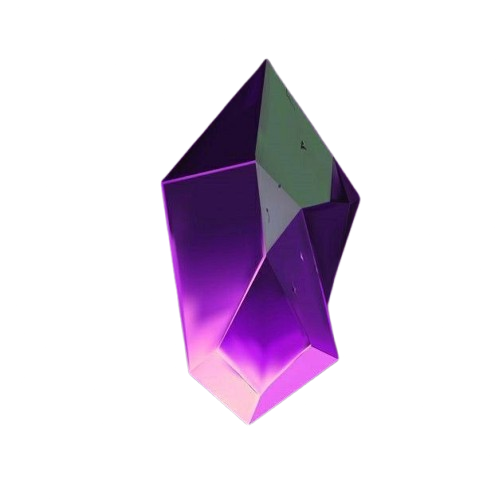
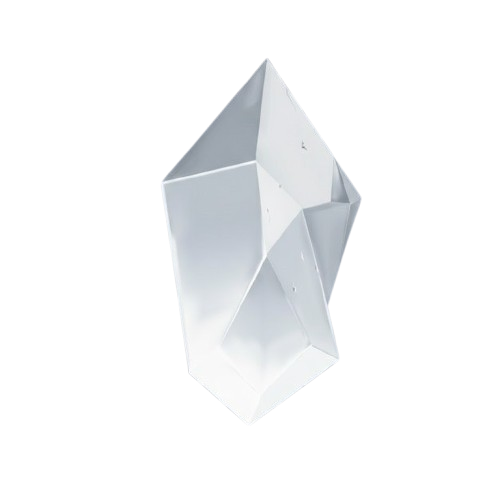
added glass effect and changed  gem
removed glowing effect of podium and added bg

Changed region(s): [[0.3006, 0.1202, 0.7214, 0.8717]]

diff --git a/src/pages/Leaderboard.tsx b/src/pages/Leaderboard.tsx
@@ -21,8 +21,21 @@ type Tab = (typeof TABS)[number];
 const Leaderboard = () => {
   const [activeTab, setActiveTab] = useState<Tab>('leaderboard');
   const [showQuiz, setShowQuiz] = useState(false);
-  const [enableSmokeAnimation] = useState(false); //This is a toggle switch to turn on and off smoke shockwave
-  //Set it to true for the visible display of the shockwave
+
+  const glassCardStyle = {
+    borderRadius: "1.75rem",
+    border: "1px solid rgba(255, 255, 255, 0.18)",
+    background: `
+      linear-gradient(to top, rgba(0, 0, 0, 0.20), transparent 60%),
+      rgba(21, 21, 21, 0.30)
+    `,
+    boxShadow: `
+      inset 0 0 0 1px rgba(255, 255, 255, 0.08),
+      inset 0 1px 0 rgba(255, 255, 255, 0.22)
+    `,
+    backdropFilter: "brightness(1.1) blur(1px)",
+    WebkitBackdropFilter: "brightness(1.1) blur(1px)",
+  };
 
   const handleTabChange = (tab: Tab) => {
     setActiveTab(tab);
@@ -82,7 +95,12 @@ const Leaderboard = () => {
         }
       `}</style>
 
-      <div className="w-full text-white p-2 sm:p-3 md:p-6 font-sans selection:bg-transparent min-h-screen relative overflow-x-hidden">
+      <div
+        className="fixed inset-0 -z-10 bg-cover bg-center bg-no-repeat"
+        style={{ backgroundImage: "url('/temp_event_bg.png')" }}
+      />
+
+      <div className="w-full text-white p-2 sm:p-3 md:p-6 font-sans selection:bg-transparent min-h-[100svh] relative overflow-x-hidden">
 
         {/* Render Quiz Modal */}
         <QuizModal isOpen={showQuiz} onClose={closeQuiz} />
@@ -117,37 +135,23 @@ const Leaderboard = () => {
                   {/* Rank 2 */}
                   <div className="flex flex-col items-center animate-[drop_0.7s_ease-out_both]" style={{ transform: 'translateZ(-20px)', transformStyle: 'preserve-3d' }}>
                     <div className="relative mb-2 sm:mb-3 md:mb-4 group cursor-pointer">
-                      <div className="absolute inset-0 bg-gradient-to-r from-gray-400 to-gray-500 rounded-full blur-xl opacity-40 group-hover:opacity-60 transition-all"></div>
-                      <img src="https://api.dicebear.com/7.x/bottts/svg?seed=TEST2" alt="TEST2" className="relative w-16 h-16 sm:w-18 sm:h-18 md:w-20 md:h-20 rounded-full border-3 md:border-4 border-gray-400/50 object-cover shadow-2xl" />
+                      <img src="https://api.dicebear.com/7.x/bottts/svg?seed=TEST2" alt="TEST2" className="relative w-16 h-16 sm:w-18 sm:h-18 md:w-20 md:h-20 rounded-full border-3 md:border-4 border-gray-400/50 object-cover" />
                     </div>
                     <h3 className="font-bold text-sm sm:text-base mb-1 sm:mb-2">TEST2</h3>
 
-                    <div className="relative w-52 h-56 bg-gradient-to-b from-gray-400/50 to-gray-700/50 border-t-4 border-x-2 border-gray-300/70 rounded-t-2xl shadow-[0_-12px_50px_rgba(0,0,0,0.5),0_20px_60px_rgba(0,0,0,0.7),inset_0_3px_25px_rgba(255,255,255,0.25)] backdrop-blur-xl"
+                    <div className="relative w-52 h-56 bg-gradient-to-b from-gray-400/50 to-gray-700/50 border-t-4 border-x-2 border-gray-300/70 rounded-t-2xl backdrop-blur-xl"
                       style={{ transform: 'translateZ(15px) rotateY(-3deg) scaleX(0.95)', transformOrigin: 'bottom', transformStyle: 'preserve-3d' }}>
                       <div className="absolute -right-2 top-0 bottom-0 w-6 bg-gradient-to-b from-gray-500/90 to-gray-800/90 rounded-tr-2xl" style={{ transform: 'rotateY(12deg) translateX(1px)', transformOrigin: 'left', clipPath: 'polygon(50% 0%, 100% 0%, 100% 100%, 0% 100%)' }}></div>
                       <div className="absolute -left-2 top-0 bottom-0 w-6 bg-gradient-to-b from-gray-400/80 to-gray-700/80 rounded-tl-2xl" style={{ transform: 'rotateY(-12deg) translateX(-1px)', transformOrigin: 'right', clipPath: 'polygon(0% 0%, 50% 0%, 100% 100%, 0% 100%)' }}></div>
-                      <div className="absolute -bottom-8 left-1/2 -translate-x-1/2 w-56 h-16 bg-gray-400/70 rounded-full blur-2xl"></div>
-                      <div className="absolute -bottom-4 left-1/4 w-32 h-12 bg-gray-300/60 rounded-full blur-xl"></div>
-                      <div className="absolute -bottom-6 right-1/4 w-40 h-14 bg-gray-500/65 rounded-full blur-2xl"></div>
-                      <div className={`absolute -bottom-10 left-1/2 -translate-x-1/2 w-64 h-20 bg-white/90 rounded-[50%] blur-3xl ${enableSmokeAnimation ? 'animate-[smokeBurst_1.2s_ease-out_0.6s_both]' : ''}`}></div>
-                      <div className={`absolute -bottom-10 left-1/4 w-48 h-20 bg-white/85 rounded-[70%] blur-3xl ${enableSmokeAnimation ? 'animate-[smokeLeft_1.2s_ease-out_0.65s_both]' : ''}`}></div>
-                      <div className={`absolute -bottom-10 right-1/4 w-48 h-20 bg-white/85 rounded-[70%] blur-3xl ${enableSmokeAnimation ? 'animate-[smokeRight_1.2s_ease-out_0.65s_both]' : ''}`}></div>
-                      <div className={`absolute -bottom-8 left-1/3 w-40 h-16 bg-white/75 rounded-[60%] blur-2xl ${enableSmokeAnimation ? 'animate-[smokeBottomLeft_1.2s_ease-out_0.7s_both]' : ''}`}></div>
-                      <div className={`absolute -bottom-8 right-1/3 w-40 h-16 bg-white/75 rounded-[60%] blur-2xl ${enableSmokeAnimation ? 'animate-[smokeBottomRight_1.2s_ease-out_0.7s_both]' : ''}`}></div>
                       <div className="absolute inset-0 bg-gradient-to-br from-white/30 via-transparent to-black/40 rounded-t-2xl"></div>
                       <div className="absolute inset-0 bg-gradient-to-t from-black/30 to-transparent rounded-t-2xl"></div>
                       <div className="absolute inset-0 bg-gradient-to-tl from-transparent via-white/10 to-transparent rounded-t-2xl"></div>
-                      <div className="absolute top-0 left-0 right-0 h-3 bg-gradient-to-r from-transparent via-gray-50/95 to-transparent shadow-[0_4px_20px_rgba(255,255,255,0.7)]"></div>
-                      <div className="absolute top-0 left-0 w-2 h-full bg-gradient-to-b from-white/70 via-white/30 to-transparent shadow-[3px_0_15px_rgba(255,255,255,0.5)]"></div>
-                      <div className="absolute top-0 right-0 w-2 h-full bg-gradient-to-b from-black/70 via-black/30 to-transparent shadow-[-3px_0_15px_rgba(0,0,0,0.6)]"></div>
                       <div className="absolute bottom-0 left-0 right-0 h-12 bg-gradient-to-t from-black/50 to-transparent"></div>
-                      <div className="absolute top-1/3 left-0 right-0 h-px bg-gradient-to-r from-transparent via-white/40 to-transparent shadow-[0_0_10px_rgba(255,255,255,0.5)]"></div>
-                      <div className="absolute inset-0 rounded-t-2xl" style={{ background: 'radial-gradient(ellipse at 50% -20%, rgba(255,255,255,0.15) 0%, transparent 50%)' }}></div>
                       <div className="relative flex flex-col items-center justify-center h-full" style={{ transform: 'translateZ(30px)' }}>
-                        <div className="text-7xl font-black text-gray-200/60 mb-3 drop-shadow-[0_8px_16px_rgba(0,0,0,0.6)] [text-shadow:_3px_3px_12px_rgb(0_0_0_/_60%)]">2</div>
+                        <div className="text-7xl font-black text-gray-200/60 mb-3">2</div>
                         <div className="flex items-center gap-2">
-                          <img src="/leaderboard/diamond-removebg-preview.png" alt="crystal" className="w-11 h-11 object-contain transition-all duration-300 hover:drop-shadow-[0_0_25px_rgba(168,85,247,1)] hover:brightness-110 hover:scale-110 cursor-pointer" />
-                          <span className="text-3xl font-black text-white drop-shadow-lg">1231</span>
+                          <img src="/leaderboard/diamond-removebg-preview.png" alt="crystal" className="w-12 h-12 object-contain transition-all duration-300 hover:brightness-110 hover:scale-110 cursor-pointer" />
+                          <span className="text-3xl font-black text-white">1231</span>
                         </div>
                       </div>
                     </div>
@@ -160,39 +164,24 @@ const Leaderboard = () => {
                     </div>
 
                     <div className="relative mb-2 sm:mb-3 md:mb-4 group cursor-pointer">
-                      <div className="absolute inset-0 bg-gradient-to-r from-yellow-400 to-amber-500 rounded-full blur-2xl opacity-60 animate-pulse"></div>
-                      <img src="https://api.dicebear.com/7.x/bottts/svg?seed=TEST1" alt="TEST1" className="relative w-20 h-20 sm:w-22 sm:h-22 md:w-24 md:h-24 rounded-full border-3 md:border-4 border-yellow-400/60 object-cover shadow-[0_0_40px_rgba(251,191,36,0.4)]" />
+                      <img src="https://api.dicebear.com/7.x/bottts/svg?seed=TEST1" alt="TEST1" className="relative w-20 h-20 sm:w-22 sm:h-22 md:w-24 md:h-24 rounded-full border-3 md:border-4 border-yellow-400/60 object-cover" />
                     </div>
                     <h3 className="font-black text-base sm:text-lg mb-1 sm:mb-2 bg-gradient-to-r from-yellow-300 to-amber-400 bg-clip-text text-transparent">TEST1</h3>
 
-                    <div className="relative w-56 h-80 bg-gradient-to-b from-yellow-400/50 to-amber-700/50 border-t-4 border-x-2 border-yellow-300/80 rounded-t-2xl shadow-[0_-18px_70px_rgba(251,191,36,0.7),0_25px_70px_rgba(0,0,0,0.8),inset_0_4px_30px_rgba(255,255,255,0.3)] backdrop-blur-xl"
+                    <div className="relative w-56 h-80 bg-gradient-to-b from-yellow-400/50 to-amber-700/50 border-t-4 border-x-2 border-yellow-300/80 rounded-t-2xl backdrop-blur-xl"
                       style={{ transform: 'translateZ(35px) scaleX(0.95)', transformOrigin: 'bottom', transformStyle: 'preserve-3d' }}>
                       <div className="absolute -right-2.5 top-0 bottom-0 w-7 bg-gradient-to-b from-amber-500/90 to-amber-900/90 rounded-tr-2xl" style={{ transform: 'rotateY(8deg) translateX(1px)', transformOrigin: 'left', clipPath: 'polygon(50% 0%, 100% 0%, 100% 100%, 0% 100%)' }}></div>
                       <div className="absolute -left-2.5 top-0 bottom-0 w-7 bg-gradient-to-b from-yellow-400/80 to-amber-700/80 rounded-tl-2xl" style={{ transform: 'rotateY(-8deg) translateX(-1px)', transformOrigin: 'right', clipPath: 'polygon(0% 0%, 50% 0%, 100% 100%, 0% 100%)' }}></div>
-                      <div className="absolute -bottom-10 left-1/2 -translate-x-1/2 w-64 h-20 bg-yellow-400/80 rounded-full blur-2xl"></div>
-                      <div className="absolute -bottom-6 left-1/4 w-40 h-16 bg-amber-300/70 rounded-full blur-xl"></div>
-                      <div className="absolute -bottom-8 right-1/4 w-48 h-18 bg-yellow-500/75 rounded-full blur-2xl"></div>
-                      <div className={`absolute -bottom-12 left-1/2 -translate-x-1/2 w-72 h-24 bg-white/90 rounded-[50%] blur-3xl ${enableSmokeAnimation ? 'animate-[smokeBurst_1.2s_ease-out_0.6s_both]' : ''}`}></div>
-                      <div className={`absolute -bottom-12 left-1/4 w-56 h-24 bg-white/85 rounded-[70%] blur-3xl ${enableSmokeAnimation ? 'animate-[smokeLeft_1.2s_ease-out_0.65s_both]' : ''}`}></div>
-                      <div className={`absolute -bottom-12 right-1/4 w-56 h-24 bg-white/85 rounded-[70%] blur-3xl ${enableSmokeAnimation ? 'animate-[smokeRight_1.2s_ease-out_0.65s_both]' : ''}`}></div>
-                      <div className={`absolute -bottom-10 left-1/3 w-48 h-20 bg-white/80 rounded-[60%] blur-2xl ${enableSmokeAnimation ? 'animate-[smokeBottomLeft_1.2s_ease-out_0.7s_both]' : ''}`}></div>
-                      <div className={`absolute -bottom-10 right-1/3 w-48 h-20 bg-white/80 rounded-[60%] blur-2xl ${enableSmokeAnimation ? 'animate-[smokeBottomRight_1.2s_ease-out_0.7s_both]' : ''}`}></div>
                       <div className="absolute inset-0 bg-gradient-to-br from-yellow-200/40 via-transparent to-amber-900/40 rounded-t-2xl"></div>
                       <div className="absolute inset-0 bg-gradient-to-t from-black/30 to-transparent rounded-t-2xl"></div>
                       <div className="absolute inset-0 bg-gradient-to-tl from-transparent via-yellow-300/15 to-transparent rounded-t-2xl"></div>
-                      <div className="absolute top-0 left-0 right-0 h-3.5 bg-gradient-to-r from-transparent via-yellow-100/100 to-transparent shadow-[0_5px_25px_rgba(251,191,36,1)]"></div>
-                      <div className="absolute top-0 left-0 w-2 h-full bg-gradient-to-b from-yellow-50/80 via-yellow-200/40 to-transparent shadow-[4px_0_20px_rgba(251,191,36,0.7)]"></div>
-                      <div className="absolute top-0 right-0 w-2 h-full bg-gradient-to-b from-amber-900/80 via-amber-800/40 to-transparent shadow-[-4px_0_20px_rgba(180,83,9,0.7)]"></div>
                       <div className="absolute bottom-0 left-0 right-0 h-16 bg-gradient-to-t from-black/60 to-transparent"></div>
-                      <div className="absolute top-1/3 left-0 right-0 h-px bg-gradient-to-r from-transparent via-yellow-200/50 to-transparent shadow-[0_0_12px_rgba(251,191,36,0.8)]"></div>
                       <div className="absolute top-1/2 left-0 right-0 h-px bg-gradient-to-r from-transparent via-yellow-300/30 to-transparent"></div>
-                      <div className="absolute inset-0 rounded-t-2xl animate-pulse" style={{ background: 'radial-gradient(ellipse at 50% -30%, rgba(251,191,36,0.2) 0%, transparent 60%)' }}></div>
-                      <div className="absolute inset-0 rounded-t-2xl" style={{ background: 'radial-gradient(ellipse at 20% 80%, rgba(251,191,36,0.1) 0%, transparent 50%)' }}></div>
                       <div className="relative flex flex-col items-center justify-center h-full" style={{ transform: 'translateZ(40px)' }}>
-                        <div className="text-8xl font-black text-yellow-200/70 mb-4 drop-shadow-[0_10px_20px_rgba(0,0,0,0.7)] [text-shadow:_4px_4px_15px_rgb(0_0_0_/_60%)]">1</div>
+                        <div className="text-8xl font-black text-yellow-200/70 mb-4">1</div>
                         <div className="flex items-center gap-2.5">
-                          <img src="/leaderboard/diamond-removebg-preview.png" alt="crystal" className="w-16 h-16 object-contain drop-shadow-[0_0_10px_rgba(168,85,247,0.8)] transition-all duration-300 hover:drop-shadow-[0_0_35px_rgba(168,85,247,1)] hover:brightness-110 hover:scale-110 cursor-pointer" />
-                          <span className="text-5xl font-black bg-gradient-to-r from-yellow-200 to-amber-300 bg-clip-text text-transparent drop-shadow-lg">1789</span>
+                          <img src="/leaderboard/diamond-removebg-preview.png" alt="crystal" className="w-18 h-18 object-contain transition-all duration-300 hover:brightness-110 hover:scale-110 cursor-pointer" />
+                          <span className="text-5xl font-black bg-gradient-to-r from-yellow-200 to-amber-300 bg-clip-text text-transparent">1789</span>
                         </div>
                       </div>
                       <div className="absolute bottom-4 left-0 right-0 flex justify-center">
@@ -204,37 +193,23 @@ const Leaderboard = () => {
                   {/* Rank 3 */}
                   <div className="flex flex-col items-center animate-[drop_0.7s_ease-out_both]" style={{ transform: 'translateZ(-20px)', transformStyle: 'preserve-3d' }}>
                     <div className="relative mb-2 sm:mb-3 md:mb-4 group cursor-pointer">
-                      <div className="absolute inset-0 bg-gradient-to-r from-orange-400 to-amber-600 rounded-full blur-xl opacity-40 group-hover:opacity-60 transition-all"></div>
-                      <img src="https://api.dicebear.com/7.x/bottts/svg?seed=TEST3" alt="TEST3" className="relative w-16 h-16 sm:w-18 sm:h-18 md:w-20 md:h-20 rounded-full border-3 md:border-4 border-orange-400/50 object-cover shadow-2xl" />
+                      <img src="https://api.dicebear.com/7.x/bottts/svg?seed=TEST3" alt="TEST3" className="relative w-16 h-16 sm:w-18 sm:h-18 md:w-20 md:h-20 rounded-full border-3 md:border-4 border-orange-400/50 object-cover" />
                     </div>
                     <h3 className="font-bold text-sm sm:text-base mb-1 sm:mb-2">TEST3</h3>
 
-                    <div className="relative w-52 h-44 bg-gradient-to-b from-orange-400/50 to-amber-700/50 border-t-4 border-x-2 border-orange-300/70 rounded-t-2xl shadow-[0_-12px_50px_rgba(0,0,0,0.5),0_20px_60px_rgba(0,0,0,0.7),inset_0_3px_25px_rgba(255,255,255,0.25)] backdrop-blur-xl"
+                    <div className="relative w-52 h-44 bg-gradient-to-b from-orange-400/50 to-amber-700/50 border-t-4 border-x-2 border-orange-300/70 rounded-t-2xl backdrop-blur-xl"
                       style={{ transform: 'translateZ(15px) rotateY(3deg) scaleX(0.95)', transformOrigin: 'bottom', transformStyle: 'preserve-3d' }}>
                       <div className="absolute -right-2 top-0 bottom-0 w-6 bg-gradient-to-b from-orange-600/90 to-amber-900/90 rounded-tr-2xl" style={{ transform: 'rotateY(12deg) translateX(1px)', transformOrigin: 'left', clipPath: 'polygon(50% 0%, 100% 0%, 100% 100%, 0% 100%)' }}></div>
                       <div className="absolute -left-2 top-0 bottom-0 w-6 bg-gradient-to-b from-orange-400/80 to-amber-700/80 rounded-tl-2xl" style={{ transform: 'rotateY(-12deg) translateX(-1px)', transformOrigin: 'right', clipPath: 'polygon(0% 0%, 50% 0%, 100% 100%, 0% 100%)' }}></div>
-                      <div className="absolute -bottom-8 left-1/2 -translate-x-1/2 w-56 h-16 bg-orange-400/70 rounded-full blur-2xl"></div>
-                      <div className="absolute -bottom-4 left-1/4 w-32 h-12 bg-orange-300/60 rounded-full blur-xl"></div>
-                      <div className="absolute -bottom-6 right-1/4 w-40 h-14 bg-amber-500/65 rounded-full blur-2xl"></div>
-                      <div className={`absolute -bottom-10 left-1/2 -translate-x-1/2 w-64 h-20 bg-white/90 rounded-[50%] blur-3xl ${enableSmokeAnimation ? 'animate-[smokeBurst_1.2s_ease-out_0.6s_both]' : ''}`}></div>
-                      <div className={`absolute -bottom-10 left-1/4 w-48 h-20 bg-white/85 rounded-[70%] blur-3xl ${enableSmokeAnimation ? 'animate-[smokeLeft_1.2s_ease-out_0.65s_both]' : ''}`}></div>
-                      <div className={`absolute -bottom-10 right-1/4 w-48 h-20 bg-white/85 rounded-[70%] blur-3xl ${enableSmokeAnimation ? 'animate-[smokeRight_1.2s_ease-out_0.65s_both]' : ''}`}></div>
-                      <div className={`absolute -bottom-8 left-1/3 w-40 h-16 bg-white/75 rounded-[60%] blur-2xl ${enableSmokeAnimation ? 'animate-[smokeBottomLeft_1.2s_ease-out_0.7s_both]' : ''}`}></div>
-                      <div className={`absolute -bottom-8 right-1/3 w-40 h-16 bg-white/75 rounded-[60%] blur-2xl ${enableSmokeAnimation ? 'animate-[smokeBottomRight_1.2s_ease-out_0.7s_both]' : ''}`}></div>
                       <div className="absolute inset-0 bg-gradient-to-br from-orange-200/30 via-transparent to-amber-900/40 rounded-t-2xl"></div>
                       <div className="absolute inset-0 bg-gradient-to-t from-black/30 to-transparent rounded-t-2xl"></div>
                       <div className="absolute inset-0 bg-gradient-to-tl from-transparent via-orange-300/10 to-transparent rounded-t-2xl"></div>
-                      <div className="absolute top-0 left-0 right-0 h-3 bg-gradient-to-r from-transparent via-orange-100/95 to-transparent shadow-[0_4px_20px_rgba(251,146,60,0.7)]"></div>
-                      <div className="absolute top-0 left-0 w-2 h-full bg-gradient-to-b from-orange-50/70 via-orange-200/30 to-transparent shadow-[3px_0_15px_rgba(251,146,60,0.5)]"></div>
-                      <div className="absolute top-0 right-0 w-2 h-full bg-gradient-to-b from-amber-900/70 via-amber-800/30 to-transparent shadow-[-3px_0_15px_rgba(180,83,9,0.6)]"></div>
                       <div className="absolute bottom-0 left-0 right-0 h-12 bg-gradient-to-t from-black/50 to-transparent"></div>
-                      <div className="absolute top-1/3 left-0 right-0 h-px bg-gradient-to-r from-transparent via-orange-300/40 to-transparent shadow-[0_0_10px_rgba(251,146,60,0.5)]"></div>
-                      <div className="absolute inset-0 rounded-t-2xl" style={{ background: 'radial-gradient(ellipse at 50% -20%, rgba(251,146,60,0.15) 0%, transparent 50%)' }}></div>
                       <div className="relative flex flex-col items-center justify-center h-full" style={{ transform: 'translateZ(30px)' }}>
-                        <div className="text-7xl font-black text-orange-200/60 mb-3 drop-shadow-[0_8px_16px_rgba(0,0,0,0.6)] [text-shadow:_3px_3px_12px_rgb(0_0_0_/_60%)]">3</div>
+                        <div className="text-7xl font-black text-orange-200/60 mb-3">3</div>
                         <div className="flex items-center gap-2">
-                          <img src="/leaderboard/diamond-removebg-preview.png" alt="crystal" className="w-11 h-11 object-contain transition-all duration-300 hover:drop-shadow-[0_0_25px_rgba(168,85,247,1)] hover:brightness-110 hover:scale-110 cursor-pointer" />
-                          <span className="text-3xl font-black text-white drop-shadow-lg">1099</span>
+                          <img src="/leaderboard/diamond-removebg-preview.png" alt="crystal" className="w-12 h-12 object-contain transition-all duration-300 hover:brightness-110 hover:scale-110 cursor-pointer" />
+                          <span className="text-3xl font-black text-white">1099</span>
                         </div>
                       </div>
                     </div>
@@ -244,8 +219,12 @@ const Leaderboard = () => {
               </div>
 
               {/* User Stats Card */}
-              <div className="max-w-[1950px] mx-auto mt-14 sm:mt-16 md:mt-8 lg:mt-12 relative z-30 px-4 sm:px-6 md:px-6 lg:px-8">
-                <Glass className="border border-purple-500/30 rounded-xl p-3 sm:p-3.5 md:p-4 shadow-[0_0_30px_rgba(168,85,247,0.15)] hover:border-purple-500/50 transition-all">
+              <div className="max-w-[1200px] mx-auto mt-14 sm:mt-16 md:mt-8 lg:mt-12 relative z-30 px-4 sm:px-6 md:px-6 lg:px-8">
+                <Glass
+                  style={glassCardStyle}
+                  hoverEffect={false}
+                  className="rounded-xl p-3 sm:p-3.5 md:p-4 transition-all shadow-[0_0_28px_rgba(168,85,247,0.25)]"
+                >
                   <div className="flex flex-col md:flex-row items-center justify-between gap-2 sm:gap-2.5 md:gap-3">
                     <div className="flex items-center gap-3 w-full md:w-auto">
                       <div className="relative">
@@ -261,7 +240,7 @@ const Leaderboard = () => {
                       <div className="text-center flex-1 md:flex-none">
                         <p className="text-[10px] text-gray-400 uppercase tracking-wider mb-1">Today</p>
                         <div className="flex items-center justify-center gap-1">
-                          <img src="/leaderboard/diamond-removebg-preview.png" alt="crystal" className="w-6 h-6 md:w-8 md:h-8 object-contain transition-all duration-300 hover:drop-shadow-[0_0_20px_rgba(168,85,247,1)] hover:brightness-110 hover:scale-110 cursor-pointer" />
+                          <img src="/leaderboard/diamond-removebg-preview.png" alt="crystal" className="w-7 h-7 md:w-9 md:h-9 object-contain drop-shadow-[0_0_12px_rgba(168,85,247,0.8)] transition-all duration-300 hover:brightness-110 hover:scale-110 cursor-pointer" />
                           <span className="text-base font-black text-white">5</span>
                         </div>
                       </div>
@@ -281,47 +260,62 @@ const Leaderboard = () => {
               </div>
 
               {/* Top Performers List */}
-              <div className="max-w-[1950px] mx-auto mt-8 sm:mt-10 md:mt-12 pb-6 sm:pb-8 md:pb-10 px-3 sm:px-4 md:px-6 lg:px-8">
-                <div className="flex items-center justify-between mb-4 sm:mb-5 md:mb-6">
-                  <h2 className="text-lg sm:text-xl md:text-2xl font-black bg-gradient-to-r from-blue-400 to-purple-500 bg-clip-text text-transparent">Top Performers</h2>
-                  <Glass className="border border-white/20 px-2 sm:px-2.5 md:px-3 py-1 sm:py-1.5 rounded-lg">
-                    <p className="text-[9px] sm:text-[10px] text-gray-400">Updated <span className="text-white font-bold">2m ago</span></p>
-                  </Glass>
-                </div>
-
-                <div className="hidden md:grid grid-cols-12 px-6 mb-3 text-[10px] font-bold text-gray-400 uppercase tracking-wider">
-                  <div className="col-span-1">Rank</div>
-                  <div className="col-span-8">User</div>
-                  <div className="col-span-3 text-right">Reward</div>
-                </div>
-
-                <div className="space-y-2 sm:space-y-2.5 md:space-y-2">
-                  {leaderboardData.map((user, index) => (
-                    <Glass key={user.rank} className="border border-white/10 rounded-xl p-2.5 sm:p-3 md:p-4 hover:border-purple-500/40 hover:shadow-[0_0_25px_rgba(168,85,247,0.2)] transition-all duration-300 group">
-                      <div className="flex items-center justify-between gap-2 sm:gap-2.5 md:gap-3">
-                        <div className="flex items-center gap-2 sm:gap-2.5 md:gap-3 flex-1 min-w-0">
-                          <div className="flex items-center justify-center w-7 sm:w-8 md:w-10">
-                            <span className="font-black text-base sm:text-lg md:text-xl text-gray-400 group-hover:text-white group-hover:scale-110 transition-all">{user.rank}</span>
-                          </div>
-                          <div className="relative flex-shrink-0">
-                            <div className={`absolute inset-0 rounded-full blur-sm opacity-50 ${index === 0 ? 'bg-blue-500/40' : index === 1 ? 'bg-purple-500/40' : 'bg-pink-500/40'}`}></div>
-                            <img src={`https://api.dicebear.com/7.x/bottts/svg?seed=${user.avatar}`} className="relative w-9 h-9 sm:w-10 sm:h-10 md:w-12 md:h-12 rounded-full border-2 border-white/20 group-hover:border-white/40 transition-all" alt={user.name} />
-                          </div>
-                          <div className="min-w-0">
-                            <p className="font-bold text-xs sm:text-sm md:text-base text-white truncate">{user.name}</p>
-                            <p className="text-[10px] sm:text-xs md:text-sm text-gray-400 truncate">{user.username}</p>
-                          </div>
-                        </div>
-                        <div className="flex-shrink-0">
-                          <div className={`border border-white/10 rounded-lg px-1.5 sm:px-2 md:px-4 py-1 sm:py-1.5 backdrop-blur-md bg-white/5 flex flex-row items-center justify-center gap-0.5 sm:gap-1 md:gap-2 hover:scale-105 transition-all w-auto min-w-[80px] sm:min-w-[90px] md:min-w-[100px] lg:w-[150px] ${index === 0 ? 'border-blue-400/40' : index === 1 ? 'border-purple-400/40' : 'border-pink-400/40'}`}>
-                            <img src="/leaderboard/diamond-removebg-preview.png" alt="crystal" className="w-4 h-4 sm:w-5 sm:h-5 md:w-8 md:h-8 object-contain flex-shrink-0 transition-all duration-300 hover:drop-shadow-[0_0_20px_rgba(168,85,247,1)] hover:brightness-110 hover:scale-110 cursor-pointer" />
-                            <span className="text-xs sm:text-sm md:text-lg font-black text-white whitespace-nowrap">{user.reward.toLocaleString()}</span>
-                          </div>
-                        </div>
-                      </div>
+              <div className="mt-8 sm:mt-10 md:mt-12 pb-6 sm:pb-8 md:pb-10 px-3 sm:px-4 md:px-6 lg:px-8">
+                <Glass
+                  style={glassCardStyle}
+                  hoverEffect={false}
+                  className="w-full max-w-[1200px] mx-auto rounded-2xl p-4 sm:p-5 md:p-6"
+                >
+                  <div className="flex items-center justify-between mb-4 sm:mb-5 md:mb-6">
+                    <h2 className="text-lg sm:text-xl md:text-2xl font-black bg-gradient-to-r from-blue-400 to-purple-500 bg-clip-text text-transparent">Top Performers</h2>
+                    <Glass
+                      style={glassCardStyle}
+                      hoverEffect={false}
+                      className="px-2 sm:px-2.5 md:px-3 py-1 sm:py-1.5 rounded-lg"
+                    >
+                      <p className="text-[9px] sm:text-[10px] text-gray-400">Updated <span className="text-white font-bold">2m ago</span></p>
                     </Glass>
-                  ))}
-                </div>
+                  </div>
+
+                  <div className="hidden md:grid grid-cols-12 px-6 mb-3 text-[10px] font-bold text-gray-400 uppercase tracking-wider">
+                    <div className="col-span-1">Rank</div>
+                    <div className="col-span-8">User</div>
+                    <div className="col-span-3 text-right">Reward</div>
+                  </div>
+
+                  <div className="space-y-2 sm:space-y-2.5 md:space-y-2">
+                    {leaderboardData.map((user, index) => (
+                      <Glass
+                        key={user.rank}
+                        style={glassCardStyle}
+                        hoverEffect={false}
+                        className="rounded-xl p-2.5 sm:p-3 md:p-4 transition-all duration-300 group"
+                      >
+                        <div className="flex items-center justify-between gap-2 sm:gap-2.5 md:gap-3">
+                          <div className="flex items-center gap-2 sm:gap-2.5 md:gap-3 flex-1 min-w-0">
+                            <div className="flex items-center justify-center w-7 sm:w-8 md:w-10">
+                              <span className="font-black text-base sm:text-lg md:text-xl text-gray-400 group-hover:text-white group-hover:scale-110 transition-all">{user.rank}</span>
+                            </div>
+                            <div className="relative flex-shrink-0">
+                              <div className={`absolute inset-0 rounded-full blur-sm opacity-50 ${index === 0 ? 'bg-blue-500/40' : index === 1 ? 'bg-purple-500/40' : 'bg-pink-500/40'}`}></div>
+                              <img src={`https://api.dicebear.com/7.x/bottts/svg?seed=${user.avatar}`} className="relative w-9 h-9 sm:w-10 sm:h-10 md:w-12 md:h-12 rounded-full border-2 border-white/20 group-hover:border-white/40 transition-all" alt={user.name} />
+                            </div>
+                            <div className="min-w-0">
+                              <p className="font-bold text-xs sm:text-sm md:text-base text-white truncate">{user.name}</p>
+                              <p className="text-[10px] sm:text-xs md:text-sm text-gray-400 truncate">{user.username}</p>
+                            </div>
+                          </div>
+                          <div className="flex-shrink-0">
+                            <div className={`border border-white/10 rounded-lg px-1.5 sm:px-2 md:px-4 py-1 sm:py-1.5 backdrop-blur-md bg-white/5 flex flex-row items-center justify-center gap-0.5 sm:gap-1 md:gap-2 hover:scale-105 transition-all w-auto min-w-[80px] sm:min-w-[90px] md:min-w-[100px] lg:w-[150px] ${index === 0 ? 'border-blue-400/40' : index === 1 ? 'border-purple-400/40' : 'border-pink-400/40'}`}>
+                              <img src="/leaderboard/diamond-removebg-preview.png" alt="crystal" className="w-5 h-5 sm:w-6 sm:h-6 md:w-9 md:h-9 object-contain flex-shrink-0 drop-shadow-[0_0_10px_rgba(168,85,247,0.8)] transition-all duration-300 hover:brightness-110 hover:scale-110 cursor-pointer" />
+                              <span className="text-xs sm:text-sm md:text-lg font-black text-white whitespace-nowrap">{user.reward.toLocaleString()}</span>
+                            </div>
+                          </div>
+                        </div>
+                      </Glass>
+                    ))}
+                  </div>
+                </Glass>
               </div>
             </>
           )}

diff --git a/src/components/leaderboard/QuizModal.tsx b/src/components/leaderboard/QuizModal.tsx
@@ -58,18 +58,17 @@ export default function QuizModal({ isOpen, onClose }: QuizModalProps) {
 
   const glassCardStyle = {
     borderRadius: "1.75rem",
-    border: "2px solid rgba(51, 65, 85, 0.5)",
-    backgroundColor: "rgba(255, 255, 255, 0.10)",
-    backgroundImage:
-      "linear-gradient(to bottom, rgba(255, 255, 255, 0.12), rgba(255, 255, 255, 0.06) 40%, rgba(15, 23, 42, 0.35))",
+    border: "1px solid rgba(255, 255, 255, 0.18)",
+    background: `
+      linear-gradient(to top, rgba(0, 0, 0, 0.20), transparent 60%),
+      rgba(21, 21, 21, 0.30)
+    `,
     boxShadow: `
-      0 0 28px rgba(168, 85, 247, 0.35),
-      0 0 80px rgba(59, 130, 246, 0.22),
       inset 0 0 0 1px rgba(255, 255, 255, 0.08),
       inset 0 1px 0 rgba(255, 255, 255, 0.22)
     `,
-    backdropFilter: "blur(24px)",
-    WebkitBackdropFilter: "blur(24px)",
+    backdropFilter: "brightness(1.1) blur(1px)",
+    WebkitBackdropFilter: "brightness(1.1) blur(1px)",
   };
 
   return (
@@ -117,7 +116,7 @@ export default function QuizModal({ isOpen, onClose }: QuizModalProps) {
           <Glass
             style={glassCardStyle}
             hoverEffect={false}
-            className="relative rounded-2xl px-6 pb-5 pt-12 border-2 border-slate-700/50 bg-white/10 !backdrop-blur-xl overflow-hidden"
+            className="relative rounded-2xl px-6 pb-5 pt-12 overflow-hidden"
           >
             <div className="relative z-10 pt-2">
               {/* TOP BAR */}
@@ -161,7 +160,7 @@ export default function QuizModal({ isOpen, onClose }: QuizModalProps) {
                   <div className="flex items-center gap-3">
                     <img
                       src="/leaderboard/diamond-removebg-preview.png"
-                      className="w-8 h-8 animate-float-soft"
+                      className="w-9 h-9 animate-float-soft drop-shadow-[0_0_12px_rgba(168,85,247,0.85)]"
                       alt="reward"
                     />
                     <span className="text-3xl font-black text-amber-400">
